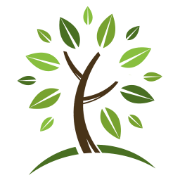
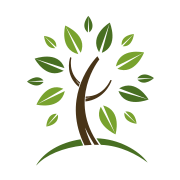
update

diff --git a/index.html b/index.html
@@ -3,35 +3,45 @@
 <head>
     <meta charset="UTF-8">
     <title>大家 Genealogy</title>
-    <link rel="shortcut icon" href="/favicon.ico">
+    <link rel="icon" type="image/svg+xml" href="/genealogy.svg">
     <link rel="apple-touch-icon" sizes="180x180" href="/images/apple-touch-icon.png">
     <link rel="icon" type="image/png" sizes="32x32" href="/images/favicon-32x32.png">
     <link rel="icon" type="image/png" sizes="16x16" href="/images/favicon-16x16.png">
     <link rel="manifest" href="/images/site.webmanifest">
+    <link rel="mask-icon" href="/images/safari-pinned-tab.svg" color="#78a22e">
+    <meta name="msapplication-TileColor" content="#ffc40d">
+    <meta name="msapplication-config" content="/images/browserconfig.xml">
+    <meta name="theme-color" content="#ffffff">
     <link rel="preconnect" href="https://fonts.gstatic.com">
     <link href="https://fonts.googleapis.com/css2?family=Noto+Sans+HK&family=Open+Sans&display=swap" rel="stylesheet">
     <style>
         body{margin: 0;}
+        header{min-height: 100vh;display: flex; justify-content: center;}
         h2{font-family: 'Noto Sans HK', sans-serif;font-weight: 400;font-size: 2.5em;color: #496f22;display:flex;align-items: center;margin:15px;}
         h2>span{display:flex;flex-direction:column;}
-        h2 b{font-weight: 400;}
+        h2 b{font-weight: 400;font-family: -apple-system, BlinkMacSystemFont, 'Segoe UI', Roboto, Oxygen, Ubuntu, Cantarell, 'Open Sans', 'Helvetica Neue', sans-serif;}
         h2 i{font-style: normal;font-size: 0.5em;color: #483318;font-family: 'Open Sans', sans-serif;}
-        footer {font-family: 'Noto Sans HK', sans-serif; position: fixed; right: 15px; bottom: 15px;background-color: rgba(0,0,0,0.1);padding: 15px 30px;border-radius: 5px;color:#666;}
-        footer a {text-decoration: none;}
+        footer {font-family: 'Noto Sans HK', sans-serif; padding: 15px 30px;border-radius: 5px;color:#666;text-align: center;font-size: 0.8em;}
+        footer a {text-decoration: none; background-image: linear-gradient(135deg,#99cc33 10%, #3399cc 60%);
+        background-size: 120% 320%;
+        -webkit-background-clip: text;
+        background-clip: text;
+        color: transparent;
+        }
     </style>
 </head>
 <body>
     <header>
     <h2>
-        <img src="/images/android-chrome-192x192.png" width="96" />
+        <embed src="genealogy.svg" width="96" />
         <span>
             <b>大家</b>
             <i>Genealogy</i>
         </span>
     </h2>
-    <header>
+</header>
     <footer>
-       Copyright &copy; 2000-2021 <a href="https://riv.company" target="_blank">大江软件</a>, All Right Reserved
+       Copyright &copy; 2022 <a href="https://riv.company" target="_blank">Archland Labs</a>, All Right Reserved
     </footer>
 </body>
 </html>
